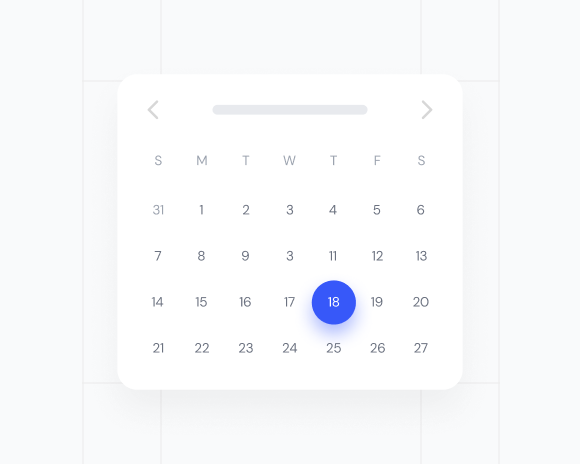
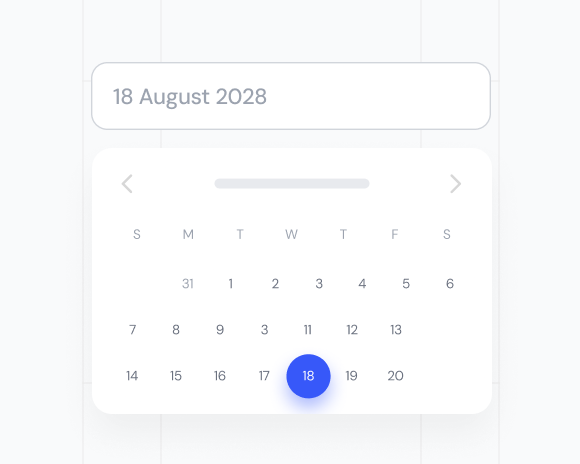
chore(cli): add calendar to cli registry
- Add Calendar component to cli registry
- Add component image in /components page
- Fix calendar header grid background issue

diff --git a/apps/docs/src/components/component-images.ts b/apps/docs/src/components/component-images.ts
@@ -7,6 +7,7 @@ import BadgeImage from "@/assets/skeleton-image/badge.png";
 import BreadcrumbImage from "@/assets/skeleton-image/breadcrumb.png";
 import ButtonGroupImage from "@/assets/skeleton-image/button-group.png";
 import ButtonImage from "@/assets/skeleton-image/button.png";
+import CalendarImage from "@/assets/skeleton-image/calendar.png";
 import CardImage from "@/assets/skeleton-image/card.png";
 import CarouselImage from "@/assets/skeleton-image/carousel.png";
 import ChartImage from "@/assets/skeleton-image/chart.png";
@@ -59,6 +60,7 @@ export const componentImages: Record<string, StaticImageData> = {
   breadcrumbs: BreadcrumbImage,
   button: ButtonImage,
   "button-group": ButtonGroupImage,
+  calendar: CalendarImage,
   card: CardImage,
   carousel: CarouselImage,
   chart: ChartImage,

diff --git a/packages/cli/src/registries.ts b/packages/cli/src/registries.ts
@@ -250,6 +250,25 @@ export const REGISTRIES: Registry[] = [
     requires: ["badge"]
   },
   {
+    id: "calendar",
+    name: "Calendar",
+    description: "A calendar component with internationalization support.",
+    type: "component",
+    exampleCount: 7,
+    files: [
+      {
+        type: "core",
+        path: "/core/calendar.tsx"
+      }
+    ],
+    dependencies: [
+      "react-aria-components",
+      "@tailgrids/icons",
+      "class-variance-authority"
+    ],
+    requires: ["button"]
+  },
+  {
     id: "command",
     name: "Command",
     description: "A command menu component with multiple variants.",

diff --git a/apps/docs/src/app/global.css b/apps/docs/src/app/global.css
@@ -858,7 +858,7 @@ aside#nd-sidebar-mobile > div:first-child > button {
 #nd-page article table {
   @apply bg-white dark:bg-[#030712];
 
-  & th {
+  & th:not(.table-grid-header-cell) {
     @apply dark:bg-[#0d1222];
   }
 }
